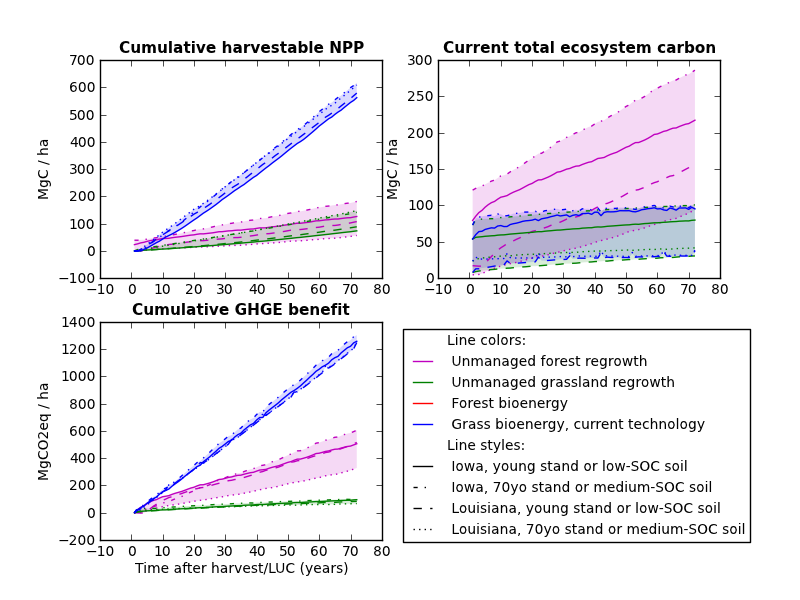
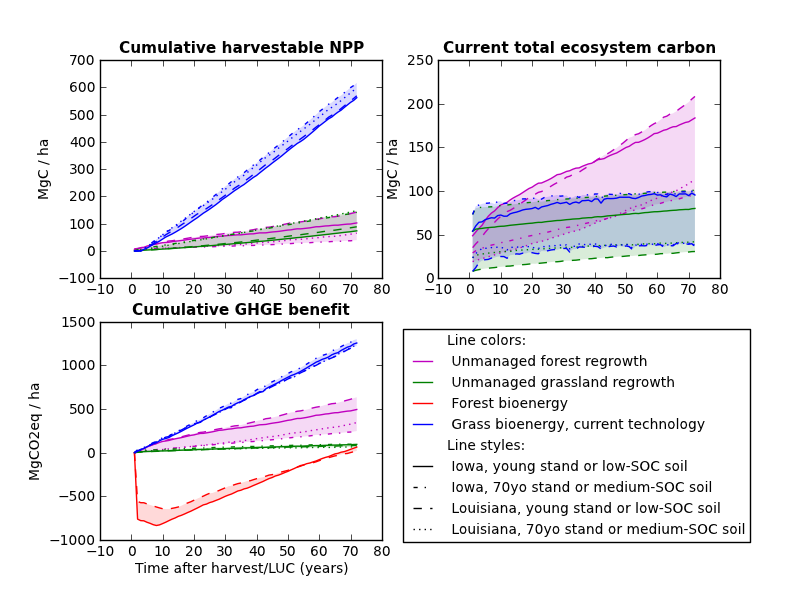
Forest bioenergy case addded.  This is the iteration of the analysis shared with Keith and John S during the 2016/02/18 'DayCent working session'.

diff --git a/autodaycent.py b/autodaycent.py
@@ -383,6 +383,13 @@ def analysis(recent_path, archive_path, run_combos, labels):
     description = raw_input("in place of spaces:  ")
     results_path = archive_path+timestamp+"_"+description+"/"
     os.mkdir(results_path)
+    out_fpath = results_path+"Table.csv"
+    header = ["Simulation", "Avg. harvestable NPP (MgC/ha/y)", "Avg. SOC change (MgC/ha/y)",
+              "Avg. system C change (MgCO2eq/ha/y)", "Avg. biomass harvest (Mg biomass/ha/y)",
+              "Avg. bioenergy GHGE avoidance (MgCO2eq/ha/y)", "Avg. total GHGE mitigation (MgCO2eq/ha/y)"]
+    out_file_object = open(out_fpath, "wb")
+    c = csv.writer(out_file_object)
+    c.writerow(header)
 
     # initialize Fig. 3a-b
     fig = plt.figure()
@@ -395,10 +402,16 @@ def analysis(recent_path, archive_path, run_combos, labels):
     fill = {
             "m": [[0, 0], [0, 0], [0, 0]],
             "g": [[0, 0], [0, 0], [0, 0]],
-            # "r": [[0, 0], [0, 0], [0, 0]],
+            "r": [[0, 0], [0, 0], [0, 0]],
             "b": [[0, 0], [0, 0], [0, 0]],
             # "c": [[0, 0], [0, 0], [0, 0]]
            }
+    panel12_fill = {
+                    "m": True,
+                    "g": True,
+                    "r": False,
+                    "b": True
+                    }
     for key in fill:
         for panel in fill[key]:
             panel[0] = [999999] * array_length
@@ -409,6 +422,7 @@ def analysis(recent_path, archive_path, run_combos, labels):
         system, site, eq_file, sch_file, tech, panel12, panel3, color, linestyle = run_combo
         handle = site+'_'+eq_file.split('.')[0]+'_'+sch_file.split('.')[0]
         lis_fpath = recent_path+handle+'.lis'
+        summary = [handle]
 
         # read all results from file
         results = read_full_out(lis_fpath, 3, 1)
@@ -430,51 +444,75 @@ def analysis(recent_path, archive_path, run_combos, labels):
         rlwacc = np.array(results[12])
         tcrem = np.array(results[13])
 
+        # compute cumulative harvestable (aboveground) C production, and record average
+        if system == 'grass':
+            cumulative_harvestable_gC_m2 = np.cumsum(agcacc)
+            cumulative_harvestable_MgC_ha = cumulative_harvestable_gC_m2 * 0.01
+        elif system == 'forest':
+            cumulative_harvestable_gC_m2 = fbrchc
+            cumulative_harvestable_gC_m2 += rlwodc
+            cumulative_harvestable_gC_m2 += wood1c
+            cumulative_harvestable_gC_m2 += wood2c
+            cumulative_harvestable_MgC_ha = cumulative_harvestable_gC_m2 * 0.01
+        elif system == 'bm':
+            cumulative_harvestable_gC_m2 = np.cumsum(crmvst)
+            cumulative_harvestable_MgC_ha = cumulative_harvestable_gC_m2 * 0.01
+        summary.append(round(cumulative_harvestable_MgC_ha[-1]/float(len(cumulative_harvestable_MgC_ha)), 3))
+
+        # compute SOC and total ecosystem C, and record averages
+        tot_SOC_MgC_ha = somsc * 0.01
+        summary.append(round(np.mean(np.diff(tot_SOC_MgC_ha)), 4))
+        tot_sysC_MgC_ha = totsysc * 0.01
+        summary.append(round(np.mean(np.diff(tot_sysC_MgC_ha)) * 3.67, 3))
+
+        # compute and plot mitigation from ecosystem C changes and bioenergy production
+        initial_sysC_gC_m2 = totsysc[0]
+        sysC_diff_gC_m2 = totsysc - initial_sysC_gC_m2
+        sysC_diff_gC02eq_m2 = sysC_diff_gC_m2 * 3.67
+        ghge_gCO2eq_m2 = sysC_diff_gC02eq_m2
+        wood_harvest = np.array([0])
+        wood_harvest = np.append(wood_harvest, np.diff(tcrem))
+        logistic_efficiency = 0.9
+        harvest_gc_m2 = (crmvst + wood_harvest) * logistic_efficiency
+        nonzero_harvest_gc_m2 = []
+        for harvest in harvest_gc_m2:
+            if harvest > 0:
+                nonzero_harvest_gc_m2.append(harvest)
+        avg_harvest_gC_m2 = np.sum(nonzero_harvest_gc_m2) / float(len(nonzero_harvest_gc_m2))
+        summary.append(round((avg_harvest_gC_m2*0.01)/0.45, 3))
+        if tech:
+            ghg_avoid_gCO2eq_m2 = bioenergy_ghg_avoid_gCO2eq_m2(harvest_gc_m2, tech)
+            nonzero_ghg_avoid_gCO2eq_m2 = []
+            for ghge in ghg_avoid_gCO2eq_m2:
+                if ghge > 0:
+                    nonzero_ghg_avoid_gCO2eq_m2.append(ghge)
+            summary.append(round((np.sum(nonzero_ghg_avoid_gCO2eq_m2)/float(len(nonzero_ghg_avoid_gCO2eq_m2)))*0.01, 3))
+            cum_ghg_avoid_gCO2eq_m2 = np.cumsum(ghg_avoid_gCO2eq_m2)
+            ghge_gCO2eq_m2 += cum_ghg_avoid_gCO2eq_m2
+        else:
+            summary.append(0)
+        ghge_MgCO2eq_ha = ghge_gCO2eq_m2 * 0.01
+        summary.append(round(np.mean(np.diff(ghge_MgCO2eq_ha)), 3))
+
+        # record results to file, and add to plot where appropriate
+        c.writerow(summary)
         if panel12:
-            # compute and plot cumulative harvestable (aboveground) C production (panel 1) where appropriate
-            if system == 'grass':
-                cumulative_harvestable_gC_m2 = np.cumsum(agcacc)
-                cumulative_harvestable_MgC_ha = cumulative_harvestable_gC_m2 * 0.01
-            elif system == 'forest':
-                cumulative_harvestable_gC_m2 = fbrchc
-                cumulative_harvestable_gC_m2 += rlwodc
-                cumulative_harvestable_gC_m2 += wood1c
-                cumulative_harvestable_gC_m2 += wood2c
-                cumulative_harvestable_MgC_ha = cumulative_harvestable_gC_m2 * 0.01
-            elif system == 'bm':
-                cumulative_harvestable_gC_m2 = np.cumsum(crmvst)
-                cumulative_harvestable_MgC_ha = cumulative_harvestable_gC_m2 * 0.01
             ax1.plot(years, cumulative_harvestable_MgC_ha, color=color, linestyle=linestyle)
             fill[color][0][0] = np.minimum(fill[color][0][0], cumulative_harvestable_MgC_ha)
             fill[color][0][1] = np.maximum(fill[color][0][1], cumulative_harvestable_MgC_ha)
-
-            # compute and plot total ecosystem C (panel 2)
-            tot_sysC_MgC_ha = totsysc * 0.01
             ax2.plot(years, tot_sysC_MgC_ha, color=color, linestyle=linestyle)
             fill[color][1][0] = np.minimum(fill[color][1][0], tot_sysC_MgC_ha)
             fill[color][1][1] = np.maximum(fill[color][1][1], tot_sysC_MgC_ha)
-
-        # compute and plot bioenergy scenario carbon benefits (panel 3) where appropriate
         if panel3:
-            initial_sysC_gC_m2 = totsysc[0]
-            sysC_diff_gC_m2 = totsysc - initial_sysC_gC_m2   # np.array([((x - initial_sysC_gC_m2) * 3.67) for x in totsysc])
-            sysC_diff_gC02eq_m2 = sysC_diff_gC_m2 * 3.67
-            ghge_gCO2eq_m2 = sysC_diff_gC02eq_m2
-            if tech:
-                logistic_efficiency = 0.9
-                harvest_gc_m2 = (crmvst + tcrem) * logistic_efficiency
-                ghg_avoid_gCO2eq_m2 = bioenergy_ghg_avoid_gCO2eq_m2(harvest_gc_m2, tech)
-                cum_ghg_avoid_gCO2eq_m2 = np.cumsum(ghg_avoid_gCO2eq_m2)
-                ghge_gCO2eq_m2 += cum_ghg_avoid_gCO2eq_m2
-            ghge_MgCO2eq_ha = ghge_gCO2eq_m2 * 0.01
             ax3.plot(years, ghge_MgCO2eq_ha, color=color, linestyle=linestyle)
             fill[color][2][0] = np.minimum(fill[color][2][0], ghge_MgCO2eq_ha)
             fill[color][2][1] = np.maximum(fill[color][2][1], ghge_MgCO2eq_ha)
 
     # add fill
     for color in fill:
-        ax1.fill_between(years, fill[color][0][0], fill[color][0][1], facecolor=color, alpha=0.15, linewidth=0.0)
-        ax2.fill_between(years, fill[color][1][0], fill[color][1][1], facecolor=color, alpha=0.15, linewidth=0.0)
+        if panel12_fill[color]:
+            ax1.fill_between(years, fill[color][0][0], fill[color][0][1], facecolor=color, alpha=0.15, linewidth=0.0)
+            ax2.fill_between(years, fill[color][1][0], fill[color][1][1], facecolor=color, alpha=0.15, linewidth=0.0)
         ax3.fill_between(years, fill[color][2][0], fill[color][2][1], facecolor=color, alpha=0.15, linewidth=0.0)
 
     # update plot formatting and add axis labels
@@ -494,12 +532,14 @@ def analysis(recent_path, archive_path, run_combos, labels):
         ax3.plot(dummy_point[0], dummy_point[1], label=label, color=color, linestyle=linestyle)
     ax3.legend(bbox_to_anchor=(1.05, 1), loc=2, prop={'size': 10})
 
-    # save figure and report out
+    # save figure, table, and report out
+    out_file_object.close()
+    shutil.copy(results_path+'Table.csv', archive_path+'Table.csv')
     plt.savefig(results_path+'Fig3.png')
     shutil.copy(results_path+'Fig3.png', archive_path+'Fig3.png')
     plt.close()
     results_path = results_path.split('/')[-2]
-    print "Resulting figure is archived in the directory "+results_path
+    print "Resulting figure and tabular output archived in the directory "+results_path
     return
 
 
@@ -521,23 +561,23 @@ archive_path = base_path+"results_archive/"
 # define model runs in tuple format
 #             (system,   site, spin-up.bin,                simulation.sch,            tech,       ax1/2,  ax3, color, linestyle)
 run_combos = [
-              ('forest', 'IA', 'forest_medSOCcrop_eq.sch',        'forest.sch',          '',        True,  True, 'm',  '-'),  # Unmanaged forest regrowth, Iowa, young stand
-              ('forest', 'IA', 'forest_medSOCcrop_forest_eq.sch', 'forest.sch',          '',        True,  True, 'm', '-.'),  # Unmanaged forest regrowth, Iowa, 70yo stand
-              ('forest', 'LA', 'forest_medSOCcrop_eq.sch',        'forest.sch',          '',        True,  True, 'm', '--'),  # Unmanaged forest regrowth, Louisiana, young stand
-              ('forest', 'LA', 'forest_medSOCcrop_forest_eq.sch', 'forest.sch',          '',        True,  True, 'm',  ':'),  # Unmanaged forest regrowth, Louisiana, 70yo stand
+              ('forest', 'IA', 'pine_medSOCcrop_eq.sch',          'forest.sch',        '',  True, True, 'm',  '-'),  # Unmanaged forest regrowth, Iowa, young stand
+              ('forest', 'IA', 'pine_medSOCcrop_forest_eq.sch',   'forest.sch',        '',  True, True, 'm', '-.'),  # Unmanaged forest regrowth, Iowa, 70yo stand
+              ('forest', 'LA', 'pine_medSOCcrop_eq.sch',          'forest.sch',        '',  True, True, 'm', '--'),  # Unmanaged forest regrowth, Louisiana, young stand
+              ('forest', 'LA', 'pine_medSOCcrop_forest_eq.sch',   'forest.sch',        '',  True, True, 'm',  ':'),  # Unmanaged forest regrowth, Louisiana, 70yo stand
 
-              ('grass',  'IA', 'grass_lowSOCcrop_eq.sch',         'grass.sch',          '',        True,  True, 'g',  '-'),  # Unmanaged grassland regrowth, Iowa, low-SOC soil
-              ('grass',  'IA', 'grass_medSOCcrop_eq.sch',         'grass.sch',          '',        True,  True, 'g', '-.'),  # Unmanaged grassland regrowth, Iowa, medium-SOC soil
-              ('grass',  'LA', 'grass_lowSOCcrop_eq.sch',         'grass.sch',          '',        True,  True, 'g', '--'),  # Unmanaged grassland regrowth, Louisiana, low-SOC soil
-              ('grass',  'LA', 'grass_medSOCcrop_eq.sch',         'grass.sch',          '',        True,  True, 'g',  ':'),  # Unmanaged grassland regrowth, Louisiana, medium-SOC soil
+              ('grass',  'IA', 'grass_lowSOCcrop_eq.sch',          'grass.sch',        '',  True, True, 'g',  '-'),  # Unmanaged grassland regrowth, Iowa, low-SOC soil
+              ('grass',  'IA', 'grass_medSOCcrop_eq.sch',          'grass.sch',        '',  True, True, 'g', '-.'),  # Unmanaged grassland regrowth, Iowa, medium-SOC soil
+              ('grass',  'LA', 'grass_lowSOCcrop_eq.sch',          'grass.sch',        '',  True, True, 'g', '--'),  # Unmanaged grassland regrowth, Louisiana, low-SOC soil
+              ('grass',  'LA', 'grass_medSOCcrop_eq.sch',          'grass.sch',        '',  True, True, 'g',  ':'),  # Unmanaged grassland regrowth, Louisiana, medium-SOC soil
 
-              # ('forest', 'IA', 'decid_eq.sch',                    'forest_harv.sch',     'current', False, True, 'r', '--'),  # Forest bioenergy, Iowa, current technology
-              # ('forest', 'LA', 'decid_eq.sch',                    'forest_harv.sch',     'current', False, True, 'r',  '-'),  # Forest bioenergy, Louisiana, current technology
+              ('forest', 'IA', 'pine_eq.sch',                'forest_harv.sch', 'current', False, True, 'r', '--'),  # Forest bioenergy, Iowa, current technology
+              ('forest', 'LA', 'pine_eq.sch',                'forest_harv.sch', 'current', False, True, 'r',  '-'),  # Forest bioenergy, Louisiana, current technology
 
-              ('bm',  'IA', 'grass_lowSOCcrop_eq.sch',         'switchgrass_IA.sch', 'current', True,  True, 'b',  '-'),  # Grass bioenergy, Iowa, low-SOC soil, current technology
-              ('bm',  'IA', 'grass_medSOCcrop_eq.sch',         'switchgrass_IA.sch', 'current', True,  True, 'b', '-.'),  # Grass bioenergy, Iowa, medium-SOC soil, current technology
-              ('bm',  'LA', 'grass_lowSOCcrop_eq.sch',         'switchgrass_LA.sch', 'current', True,  True, 'b', '--'),  # Grass bioenergy, Louisiana, low-SOC soil, current technology
-              ('bm',  'LA', 'grass_medSOCcrop_eq.sch',         'switchgrass_LA.sch', 'current', True,  True, 'b',  ':'),  # Grass bioenergy, Louisiana, medium-SOC soil, current technology
+              ('bm',     'IA', 'grass_lowSOCcrop_eq.sch', 'switchgrass_IA.sch', 'current',  True, True, 'b',  '-'),  # Grass bioenergy, Iowa, low-SOC soil, current technology
+              ('bm',     'IA', 'grass_medSOCcrop_eq.sch', 'switchgrass_IA.sch', 'current',  True, True, 'b', '-.'),  # Grass bioenergy, Iowa, medium-SOC soil, current technology
+              ('bm',     'LA', 'grass_lowSOCcrop_eq.sch', 'switchgrass_LA.sch', 'current',  True, True, 'b', '--'),  # Grass bioenergy, Louisiana, low-SOC soil, current technology
+              ('bm',     'LA', 'grass_medSOCcrop_eq.sch', 'switchgrass_LA.sch', 'current',  True, True, 'b',  ':'),  # Grass bioenergy, Louisiana, medium-SOC soil, current technology
 
               # ('grass',  'IA', 'grass_lowSOCcrop_eq.sch',         'switchgrass_IA.sch', 'mature',  False, True, 'c',  '-'),  # Grass bioenergy, Iowa, low-SOC soil, mature technology
               # ('grass',  'IA', 'grass_medSOCcrop_eq.sch',         'switchgrass_IA.sch', 'mature',  False, True, 'c', '-.'),  # Grass bioenergy, Iowa, medium-SOC soil, mature technology
@@ -561,9 +601,9 @@ labels = [('Line colors:', 'None', 'None'),
 # initiate interactive routine
 prompt = """
 Please select from the following options:
-   e = execute DayCent simulation ensemble
-   s = run DayCent model spin-up
-   a = analyze current simulation results set
+   e = execute DayCent simulation ensemble and analyze results
+   s = run DayCent model spin-up (individually or batch)
+   a = analyze current simulation results set only
    q = quit
 """
 command = ""
@@ -576,17 +616,24 @@ while True:
             print "   Please try again!"
     if command == 'e':
         print "   Executing DayCent simulation ensemble..."
-        print
         execute(base_path, sites_path, work_path, library_path, recent_path, ddc_fpath,
                 ddclist_fpath, run_combos)
+        print
+        print
+        print "   Analyzing current simulation results set..."
+        analysis(recent_path, archive_path, run_combos, labels)
+        print
+        print
     elif command == 's':
         print "   Running DayCent model spin-up..."
-        print
         spinup(base_path, sites_path, work_path, library_path, ddc_fpath, ddclist_fpath, run_combos)
+        print
+        print
     elif command == 'a':
         print "   Analyzing current simulation results set..."
-        print
         analysis(recent_path, archive_path, run_combos, labels)
+        print
+        print
     elif command == 'q':
         print "   Quitting..."
         print
